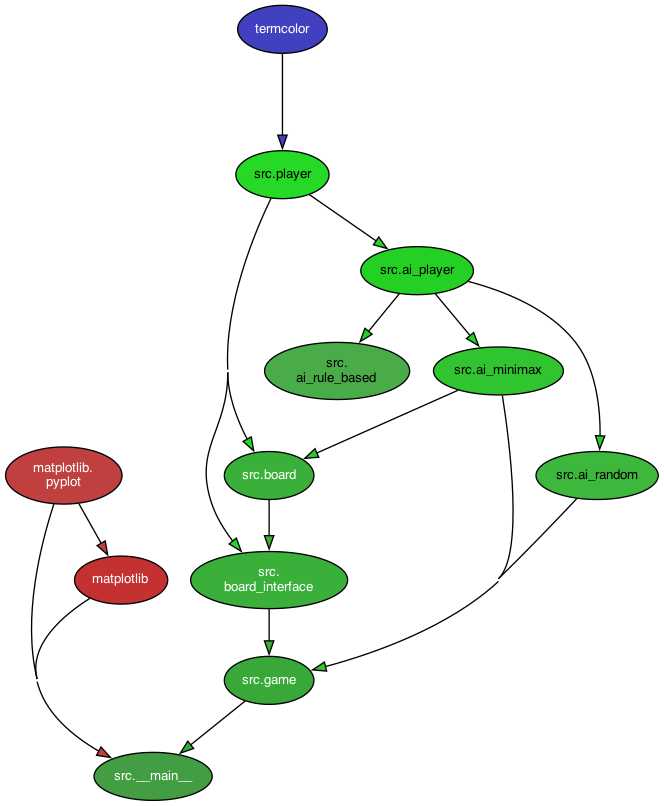
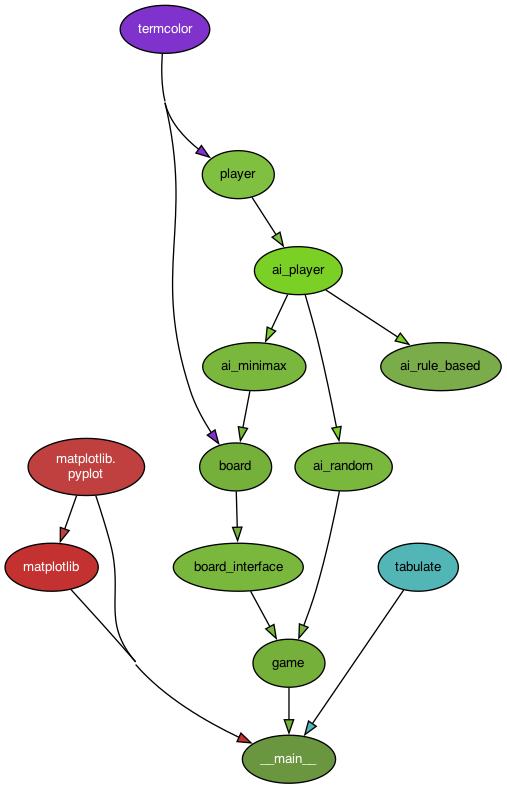
Added line counting and arranged imports

diff --git a/src/ai_minimax.py b/src/ai_minimax.py
@@ -20,23 +20,10 @@ class ai_minimax(ai_player):
     def evaluate_board(self, interface):
         """
         Heuristic function to evaluate the board state
+        See README for more details of how the heuristic is calculated
         :param interface: board_interface
         :return: The evaluation of the board as an integer
         """
-
-        # NOTES
-        # Main Score points should be based on the following:
-        # 1. Victory Points - This contains the number of cities and settlements, so no need to calculate this as well
-        # 2. Number of roads
-        # 3. Number of resource player has access to
-        # 4. Number of development cards
-        # 5. Position of settlements and cities, based on scarcity of resources
-
-        # Resources of other opponents
-        # Resource Scarcity
-
-        # No need to calculate the number of settlements and cities, as this is already calculated in the victory points
-        # No need to calculate how many resource cards a player has in their hand, as this would suggest players to horde cards instead of spending
 
         score = 0
 

diff --git a/src/game.py b/src/game.py
@@ -1,5 +1,4 @@
 from src.board_interface import *
-from src.ai_minimax import *
 from src.ai_random import *
 
 
@@ -51,8 +50,10 @@ class game:
                 time.sleep(1)
 
     def __init__(self, players: list[player]):
-
-        os.system("clear" if os.name == "posix" else "cls")
+        """
+        Initialises a 'match' of the game, which is just a game with stored results.
+        :param players:
+        """
 
         random.shuffle(players)
         for i, player in enumerate(players):

diff --git a/src/__main__.py b/src/__main__.py
@@ -23,6 +23,7 @@ if __name__ == "__main__":
     for match in match_queue:
         match_number = str(match_queue.index(match) + 1)
         print("Starting Match " + match_number + " of " + str(number_of_matches))
+        time.sleep(1)
         match.initial_placement()
         match.play()
         results = match.results

diff --git a/src/board.py b/src/board.py
@@ -3,7 +3,7 @@ import os
 import src.ai_minimax
 from src.ai_minimax import *
 import random
-from src.player import *
+import termcolor
 from tile import tile
 
 

diff --git a/src/board_interface.py b/src/board_interface.py
@@ -5,8 +5,6 @@ from src.board import *
 
 import logging
 
-from src import player
-
 
 class board_interface:
     board: board
